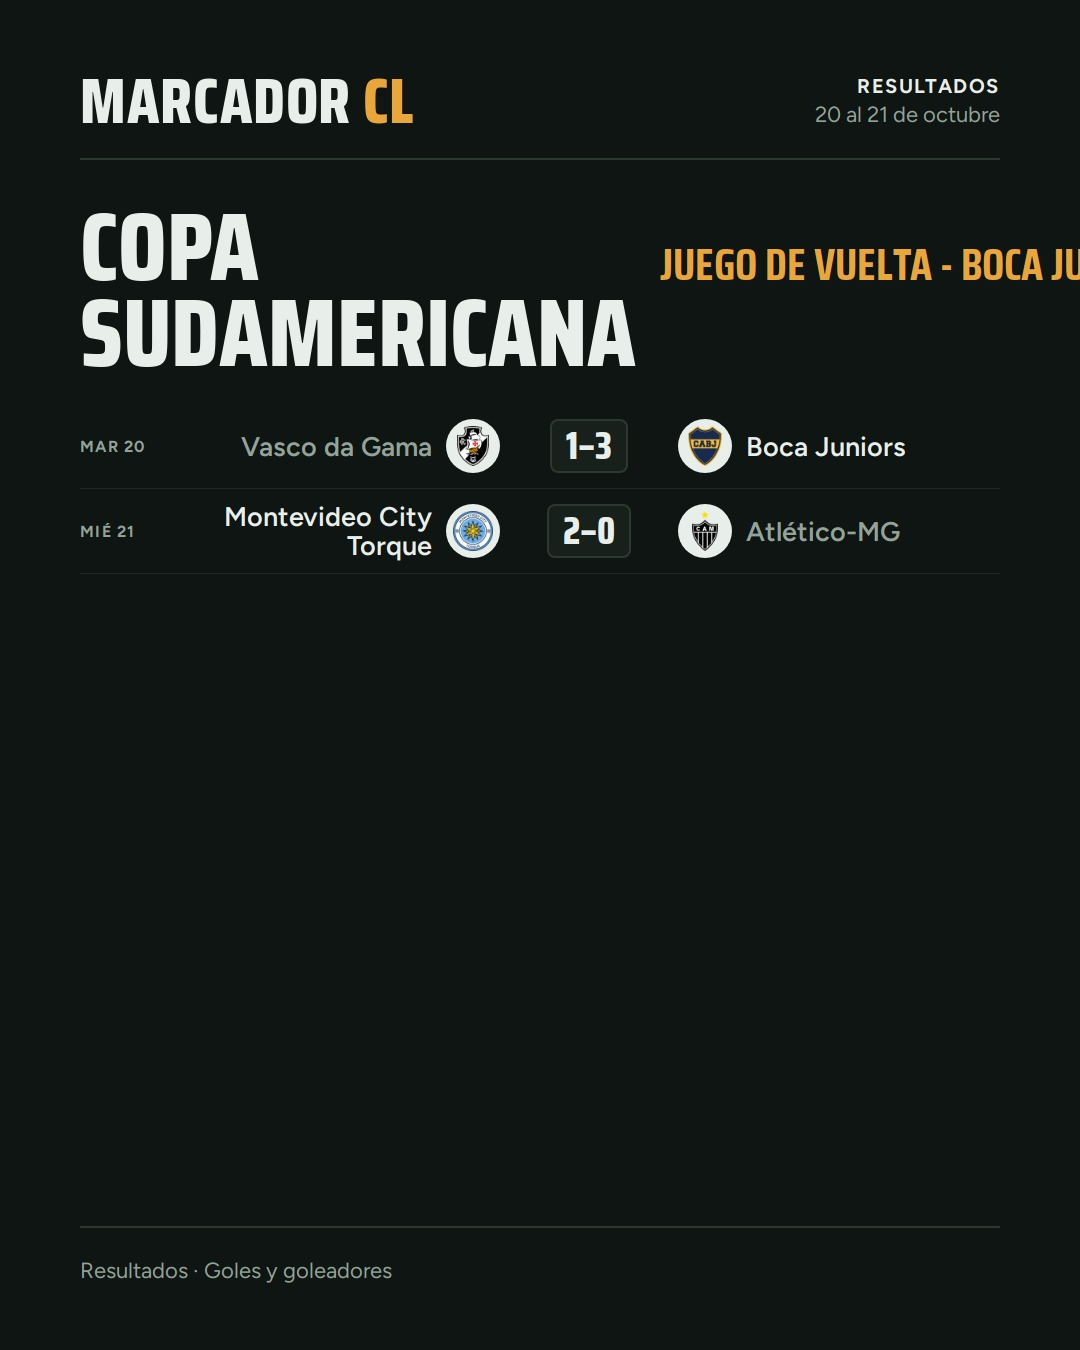
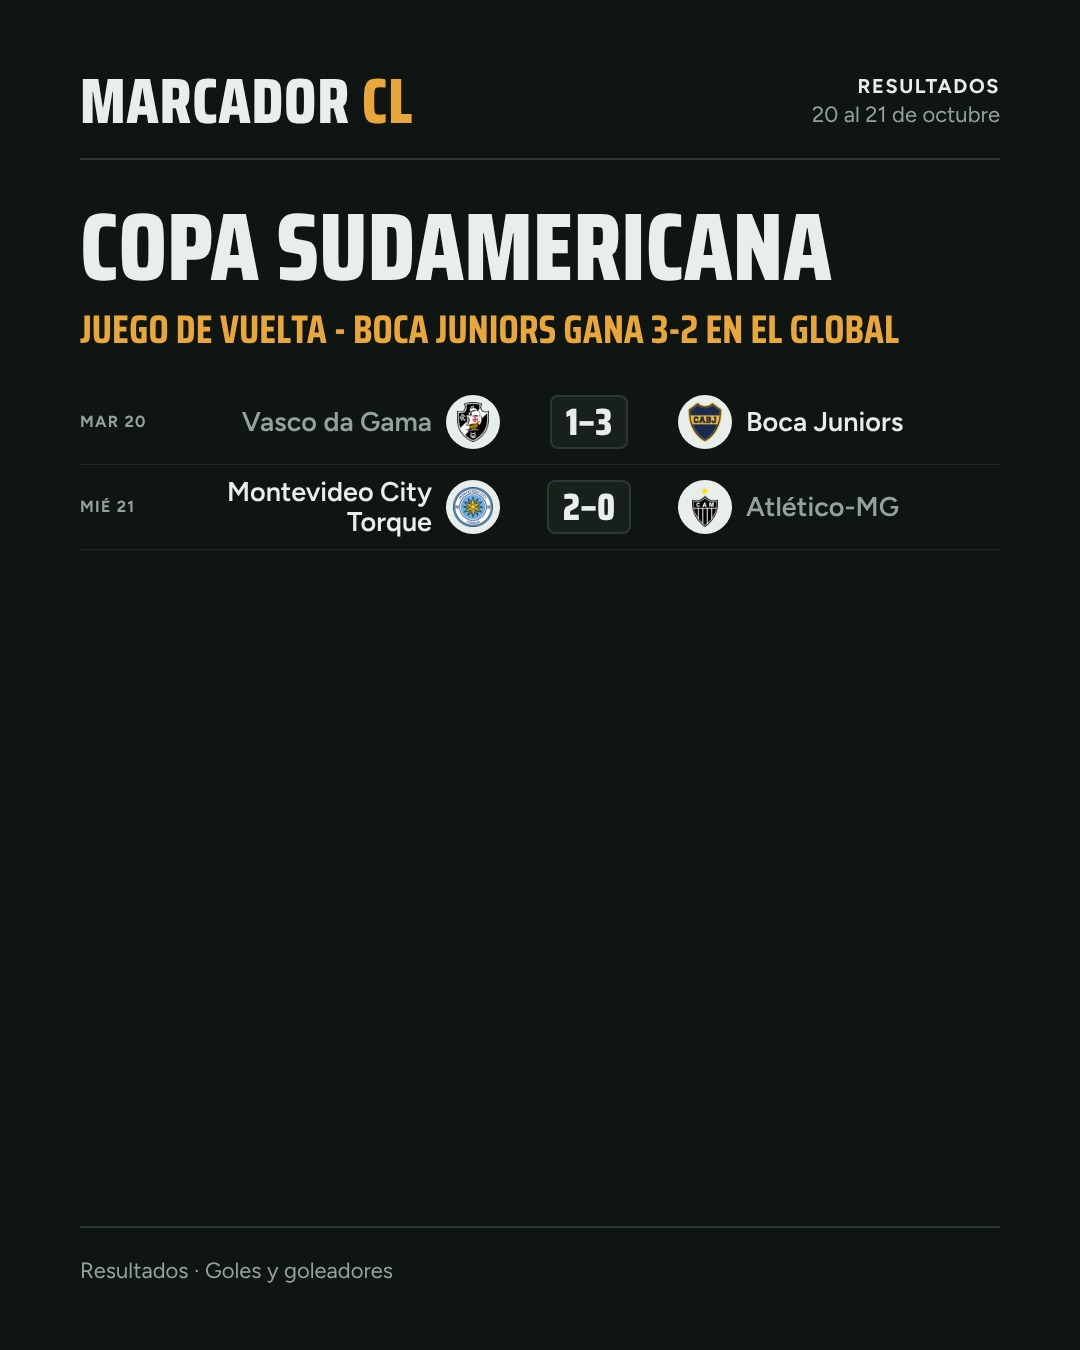
Resumen: la fase va bajo el título de la liga para que no se corte

diff --git a/historias/render.py b/historias/render.py
@@ -234,7 +234,7 @@ def html_resumen(r, filas, pagina, total):
 </div>'''
     tam = 120 if len(liga) <= 15 else 96
     pie = f"{pagina}/{total} · Desliza para ver más" if total > 1 and pagina < total else "Resultados · Goles y goleadores"
-    fase = f'<div style="font:700 44px/1 Saira;text-transform:uppercase;color:#e9a63b;white-space:nowrap">{e(r.get("fase",""))}</div>' if r.get("fase") else ""
+    fase = f'<div style="margin-top:18px;font:700 40px/1.1 Saira;text-transform:uppercase;color:#e9a63b">{e(r.get("fase",""))}</div>' if r.get("fase") else ""
     return f'''<!doctype html><html><head><meta charset="utf-8"><style>
 @font-face{{font-family:Saira;src:url("{font("SairaCondensed-ExtraBold.ttf")}");font-weight:800}}
 @font-face{{font-family:Saira;src:url("{font("SairaCondensed-Bold.ttf")}");font-weight:700}}
@@ -248,7 +248,7 @@ html,body{{margin:0;background:#0f1512}}
       <div style="font-weight:700;color:#e8eee9;letter-spacing:.08em;text-transform:uppercase;font-size:20px">Resultados</div>
       <div>{e(r.get("rango",""))}</div></div>
   </div>
-  <div style="padding-top:44px;display:flex;align-items:baseline;justify-content:space-between;gap:24px">
+  <div style="padding-top:44px;display:flex;flex-direction:column">
     <div style="font:800 {tam}px/0.9 Saira;text-transform:uppercase">{e(liga)}</div>{fase}
   </div>
   <div style="margin-top:28px;display:flex;flex-direction:column">{rows}</div>
